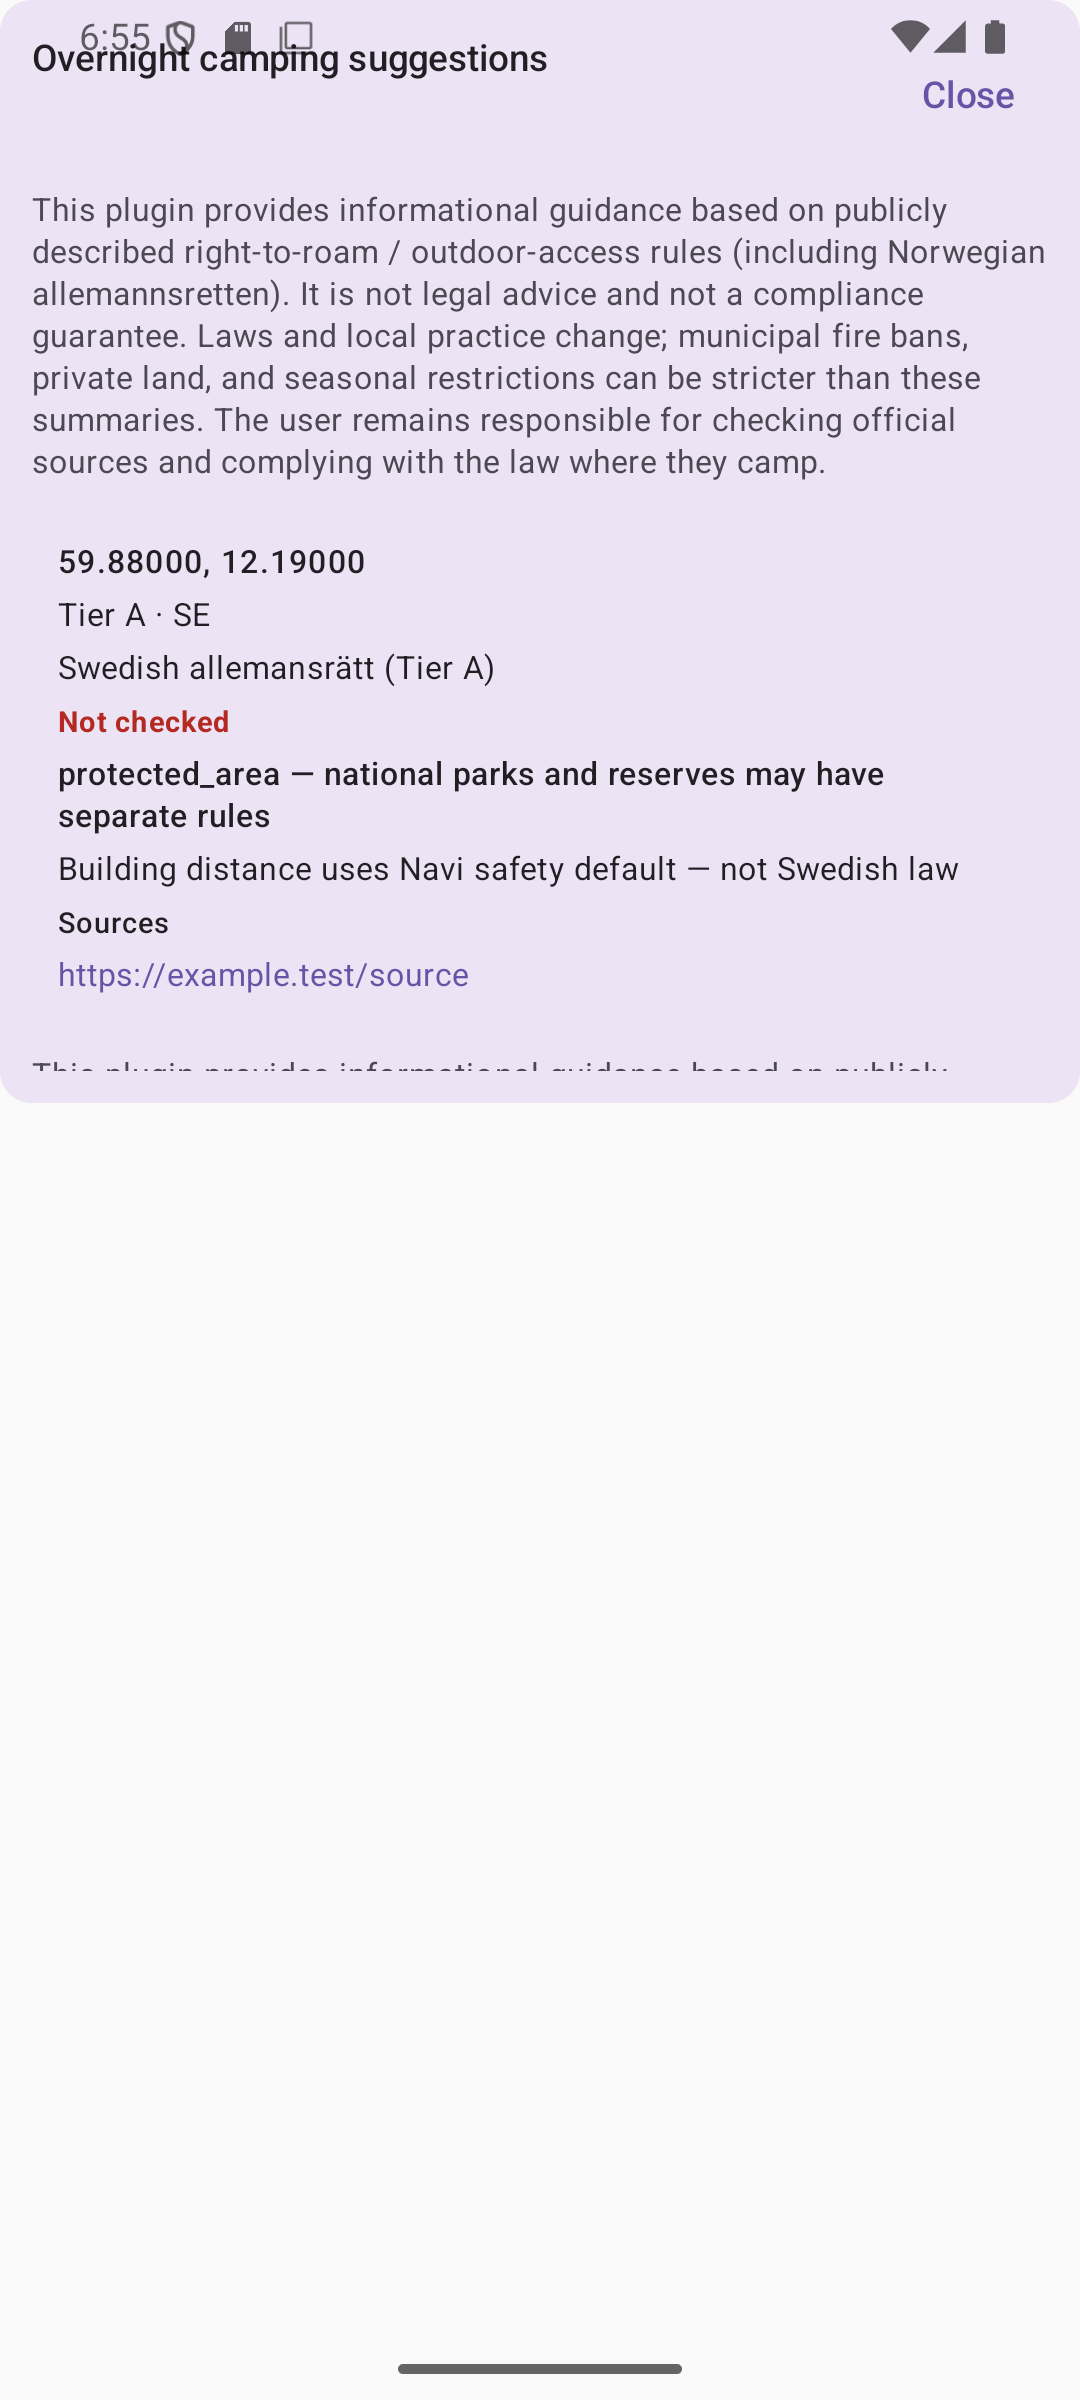
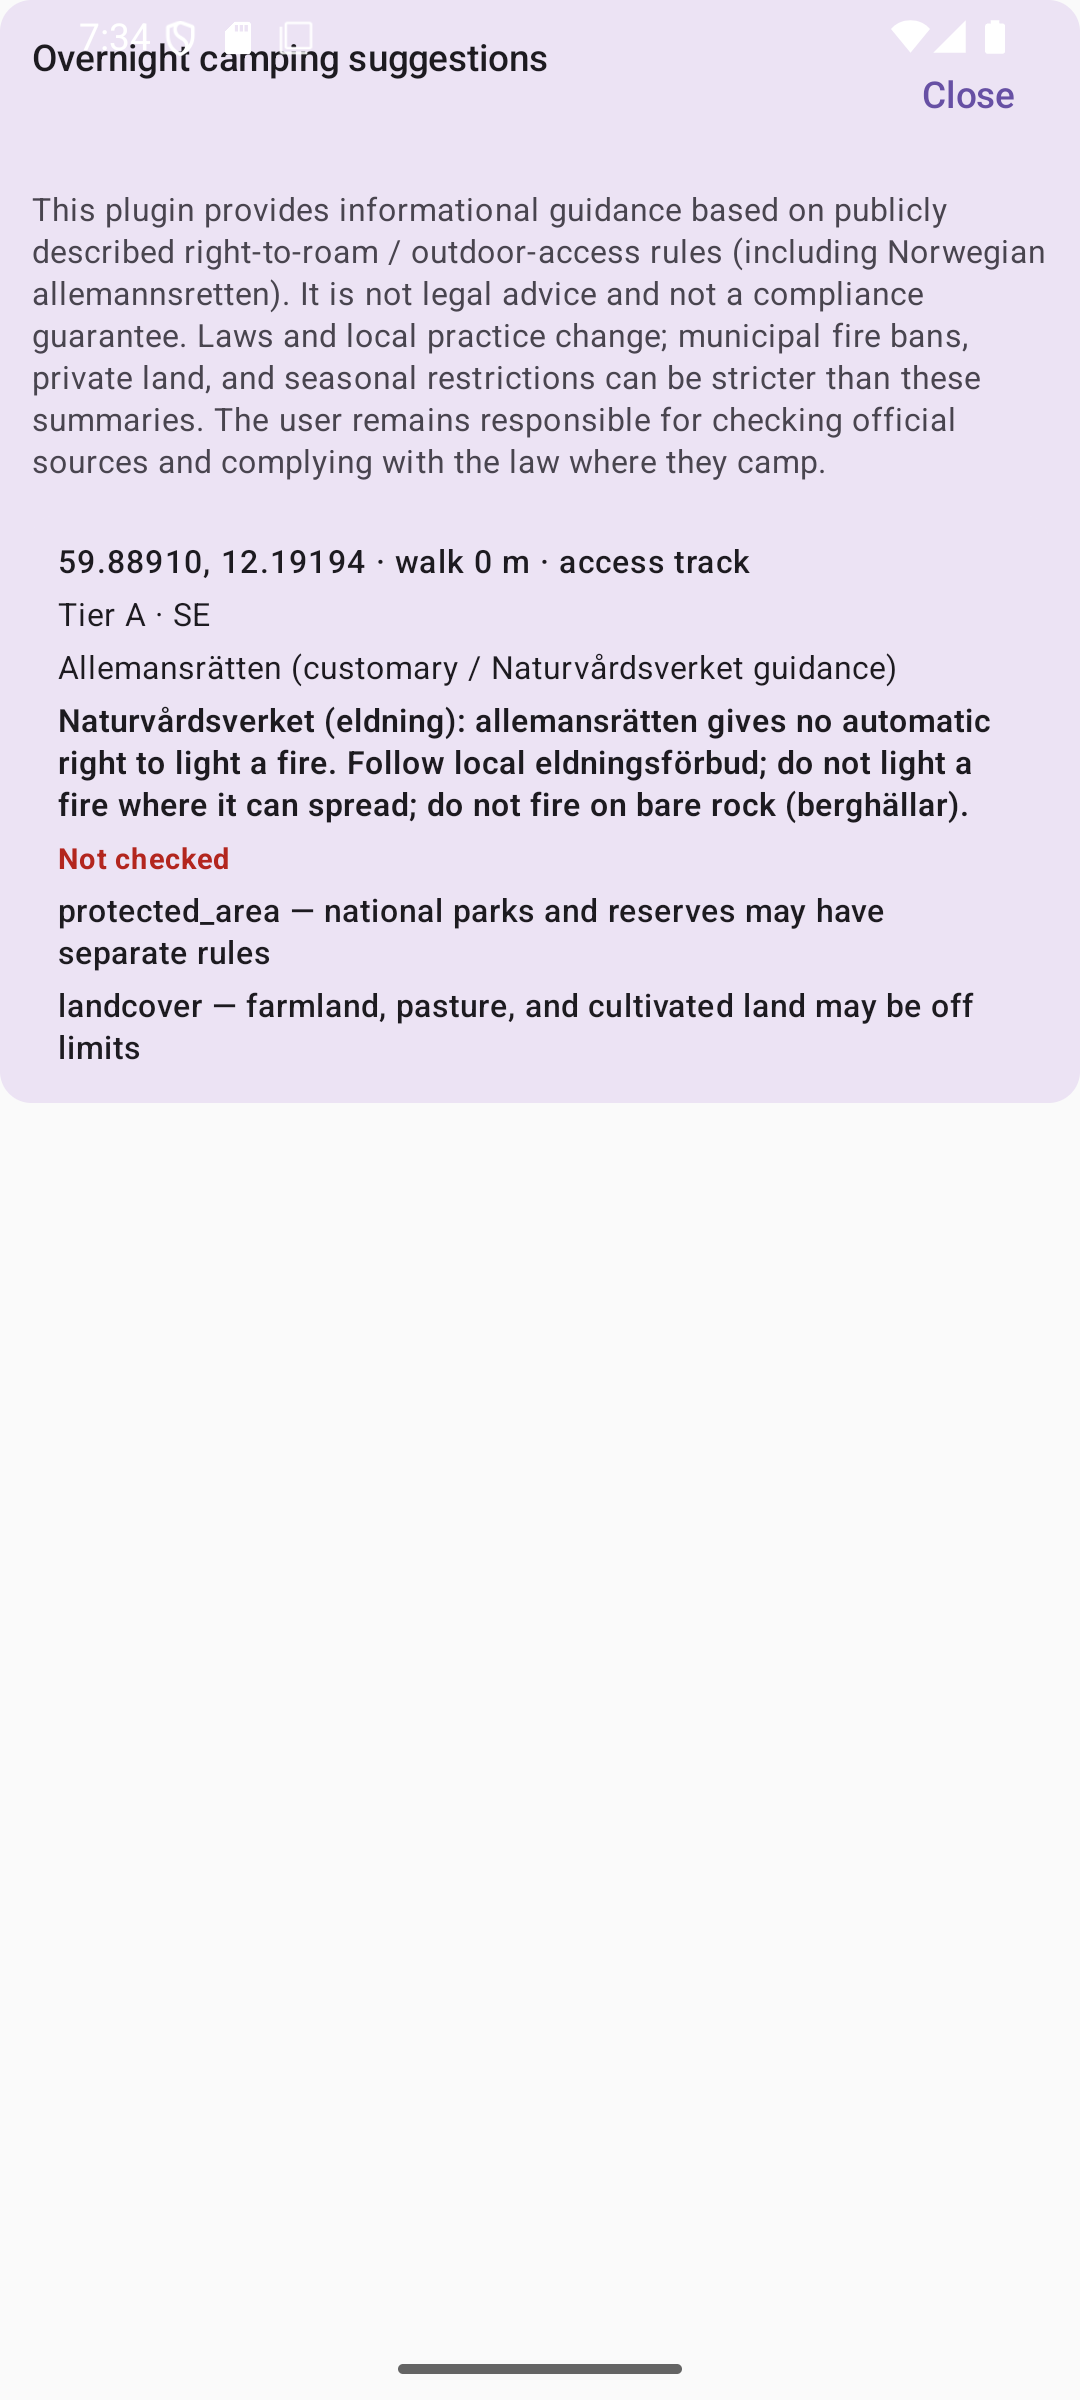
Verify Swedish Tier A on the Värmland pack through wasmtime.
Ostlandet never covered Charlottenberg; the earlier SE coordinate was
admin_region_at on fixed probes. The emulator run uses the real
europe/sweden/varmland graphs.

diff --git a/app/src/androidTest/java/no/navi/app/CampingPhase5bPresentationInstrumentedTest.kt b/app/src/androidTest/java/no/navi/app/CampingPhase5bPresentationInstrumentedTest.kt
@@ -1,13 +1,18 @@
 package no.navi.app
 
+import androidx.compose.material3.MaterialTheme
+import androidx.compose.ui.test.junit4.createComposeRule
+import androidx.compose.ui.test.onNodeWithTag
 import androidx.test.ext.junit.runners.AndroidJUnit4
 import androidx.test.filters.LargeTest
 import androidx.test.platform.app.InstrumentationRegistry
+import org.junit.Assert.assertEquals
 import org.junit.Assert.assertNotEquals
 import org.junit.Assert.assertNotNull
 import org.junit.Assert.assertTrue
 import org.junit.Assume.assumeTrue
 import org.junit.Before
+import org.junit.Rule
 import org.junit.Test
 import org.junit.runner.RunWith
 import uniffi.navi.CampingCallKind
@@ -26,6 +31,9 @@ import java.util.TimeZone
 @RunWith(AndroidJUnit4::class)
 @LargeTest
 class CampingPhase5bPresentationInstrumentedTest {
+    @get:Rule
+    val composeRule = createComposeRule()
+
     private lateinit var filesDir: File
     private lateinit var dataDir: File
 
@@ -75,6 +83,21 @@ class CampingPhase5bPresentationInstrumentedTest {
                 doubleArrayOf(61.1475, 10.6980),
             )
         return campingWaypointsJson(wps)
+    }
+
+    private fun installVarmlandPack(): File? {
+        val src = File("/data/local/tmp/navi_varmland")
+        if (!src.isDirectory) return null
+        val dest = File(filesDir, "varmland_pack")
+        dest.mkdirs()
+        src.listFiles()?.forEach { f ->
+            f.copyTo(File(dest, f.name), overwrite = true)
+        }
+        File(dest, "europe_sweden_varmland-latest.osm.pbf").writeBytes(ByteArray(0))
+        File(dest, "europe_sweden_varmland-latest.navi-server-install.json").writeText("{}")
+        return dest.takeIf {
+            File(it, "europe_sweden_varmland-latest.navi-manifest.json").isFile
+        }
     }
 
     private suspend fun suggestParsed(): CampingSuggestResult? {
@@ -177,13 +200,24 @@ class CampingPhase5bPresentationInstrumentedTest {
 
     @Test
     fun kongsvingerCharlottenberg_swedishTierASafetyDefault() {
-        val pbf = regionPbf()
-        assumeTrue("ostlandet PBF required", pbf != null)
+        val pack = installVarmlandPack()
+        assumeTrue(
+            "Värmland navi pack required under /data/local/tmp/navi_varmland",
+            pack != null,
+        )
+        campingPluginConfigure(
+            filesDir.absolutePath,
+            pack!!.absolutePath,
+            TimeZone.getDefault().id,
+        )
+        installGuest("right_to_roam_camping")
+        campingPluginSetEnabled(true)
+        campingPluginSetTimezone("Europe/Oslo")
         campingPluginSetNavContext(
             waypointsJson =
                 campingWaypointsJson(
                     listOf(
-                        doubleArrayOf(60.1910, 12.0080),
+                        doubleArrayOf(59.889366, 12.192353),
                         doubleArrayOf(59.8840, 12.3040),
                     ),
                 ),
@@ -198,11 +232,12 @@ class CampingPhase5bPresentationInstrumentedTest {
             }
         assumeTrue("graph ${call.kind} ${call.message}", call.kind == CampingCallKind.OK)
         val parsed = parseCampingSuggestResultJson(call.resultJson!!)
+        assertTrue("must evaluate in wasmtime guest", parsed.via == "wasmtime")
         val se =
             (parsed.list.cards + parsed.onFootFromHere.cards).filter {
                 it.countryIso.equals("se", ignoreCase = true)
             }
-        assumeTrue("expected Swedish cards Kongsvinger–Charlottenberg", se.isNotEmpty())
+        assumeTrue("expected Swedish cards on Värmland pack at Charlottenberg", se.isNotEmpty())
         assertTrue(
             se.any { c ->
                 c.notes.any { n ->
@@ -211,6 +246,93 @@ class CampingPhase5bPresentationInstrumentedTest {
                 }
             },
         )
+        composeRule.setContent {
+            MaterialTheme {
+                CampingSuggestionSheet(
+                    result = parsed,
+                    profile = TravelProfile.HIKING,
+                    listDisclaimer = parsed.disclaimer,
+                    sessionDisableMessage = null,
+                    onReEnableSession = {},
+                    onClose = {},
+                )
+            }
+        }
+        composeRule.onNodeWithTag("camping_suggestion_sheet").assertExists()
+        composeRule.waitForIdle()
+        val shot = InstrumentationRegistry.getInstrumentation().uiAutomation.takeScreenshot()
+        assertNotNull(shot)
+        val outDir = File("/sdcard/Download/navi_camping_screenshots")
+        outDir.mkdirs()
+        File(outDir, "camping_sweden_tier_a.png").outputStream().use { os ->
+            shot!!.compress(android.graphics.Bitmap.CompressFormat.PNG, 100, os)
+        }
+        android.util.Log.i(
+            "NaviCampingSweden",
+            "wasm se_cards=${se.size} via=${parsed.via} pack=europe/sweden/varmland",
+        )
+    }
+
+    @Test
+    fun nightStore_wasmPath_twoNightsThirdSuppressedPersistsThenDisableDeletes() {
+        campingPluginSetEnabled(true)
+        val kv = File(filesDir, "plugin_kv/camping_night.json")
+        if (kv.isFile) kv.delete()
+        val jobBase =
+            """
+            {"probes":[[61.11515,10.46628]],"max_suggestions":4,"buildings":[],"glaciers":[],
+             "safety":{"min_building_distance_m":150.0,"min_glacier_distance_m":1000.0},
+             "clock":null,"kv_ok":true,
+             "countries":[[61.11515,10.46628,"no"]],"subdivisions":[[61.11515,10.46628,"no-34"]],
+             "travel_mode":"non_motorised","vehicle_class":"unknown",
+             "is_professional_driver_under_rest_rules":false}
+            """.trimIndent()
+        fun suggestOn(y: Int, m: UInt, d: UInt): CampingSuggestResult {
+            campingPluginSetClockYmd(y, m, d)
+            val call =
+                kotlinx.coroutines.runBlocking {
+                    CampingPluginApi.runSuggest(jobBase)
+                }
+            assumeTrue("wasm suggest ${call.kind} ${call.message}", call.kind == CampingCallKind.OK)
+            android.util.Log.i(
+                "NaviCampingNight",
+                "date=$y-$m-$d kv_exists=${kv.isFile} kv_bytes=${kv.length()} json=${call.resultJson}",
+            )
+            return parseCampingSuggestResultJson(call.resultJson!!)
+        }
+        val d1 = suggestOn(2026, 7u, 1u)
+        assumeTrue(
+            "night 1 should accept",
+            d1.list.probesAccepted > 0 || d1.list.cards.any { it.accepted },
+        )
+        assertTrue("night store after first night", kv.isFile)
+        val d2 = suggestOn(2026, 7u, 2u)
+        assumeTrue(
+            "night 2 should accept",
+            d2.list.probesAccepted > 0 || d2.list.cards.any { it.accepted },
+        )
+        val d3 = suggestOn(2026, 7u, 3u)
+        val d3accepted = d3.list.cards.any { it.accepted } || d3.list.probesAccepted > 0
+        assertTrue("third consecutive night must be suppressed", !d3accepted)
+        val kvBeforeStop = kv.readText()
+        campingPluginConfigure(
+            filesDir.absolutePath,
+            dataDir.absolutePath,
+            TimeZone.getDefault().id,
+        )
+        installGuest("right_to_roam_camping")
+        campingPluginSetEnabled(true)
+        assertTrue("night store must survive session rebind", kv.isFile)
+        assertEquals(kvBeforeStop, kv.readText())
+        android.util.Log.i("NaviCampingNight", "after_relaunch kv=$kvBeforeStop")
+        val d3b = suggestOn(2026, 7u, 3u)
+        assertTrue(
+            "third night still suppressed after relaunch",
+            !(d3b.list.cards.any { it.accepted } || d3b.list.probesAccepted > 0),
+        )
+        campingPluginSetEnabled(false)
+        assertTrue("disable must delete night store", !kv.isFile)
+        android.util.Log.i("NaviCampingNight", "after_disable kv_exists=${kv.isFile}")
     }
 
     @Test

diff --git a/plugin-host/tests/camping_real_pack.rs b/plugin-host/tests/camping_real_pack.rs
@@ -1,4 +1,9 @@
-//! Phase 2 real-pack verification: Lillehammer → Sjusjøen + Sweden Tier D.
+//! Phase 2 real-pack verification: Lillehammer → Sjusjøen.
+//!
+//! Ostlandet OSM does **not** include Charlottenberg (Sweden). Earlier SE
+//! Tier A results at 59.889366, 12.192353 used `admin_region_at` on fixed
+//! probes, not ostlandet graph coverage. Swedish corridor UI uses the
+//! europe/sweden/varmland pack.
 //!
 //! Verified against **real** downloaded Ostlandet packs under `target/espa-dombas-e2e`
 //! when present. Fail-safe / fire-window / night-store unit coverage lives in the
